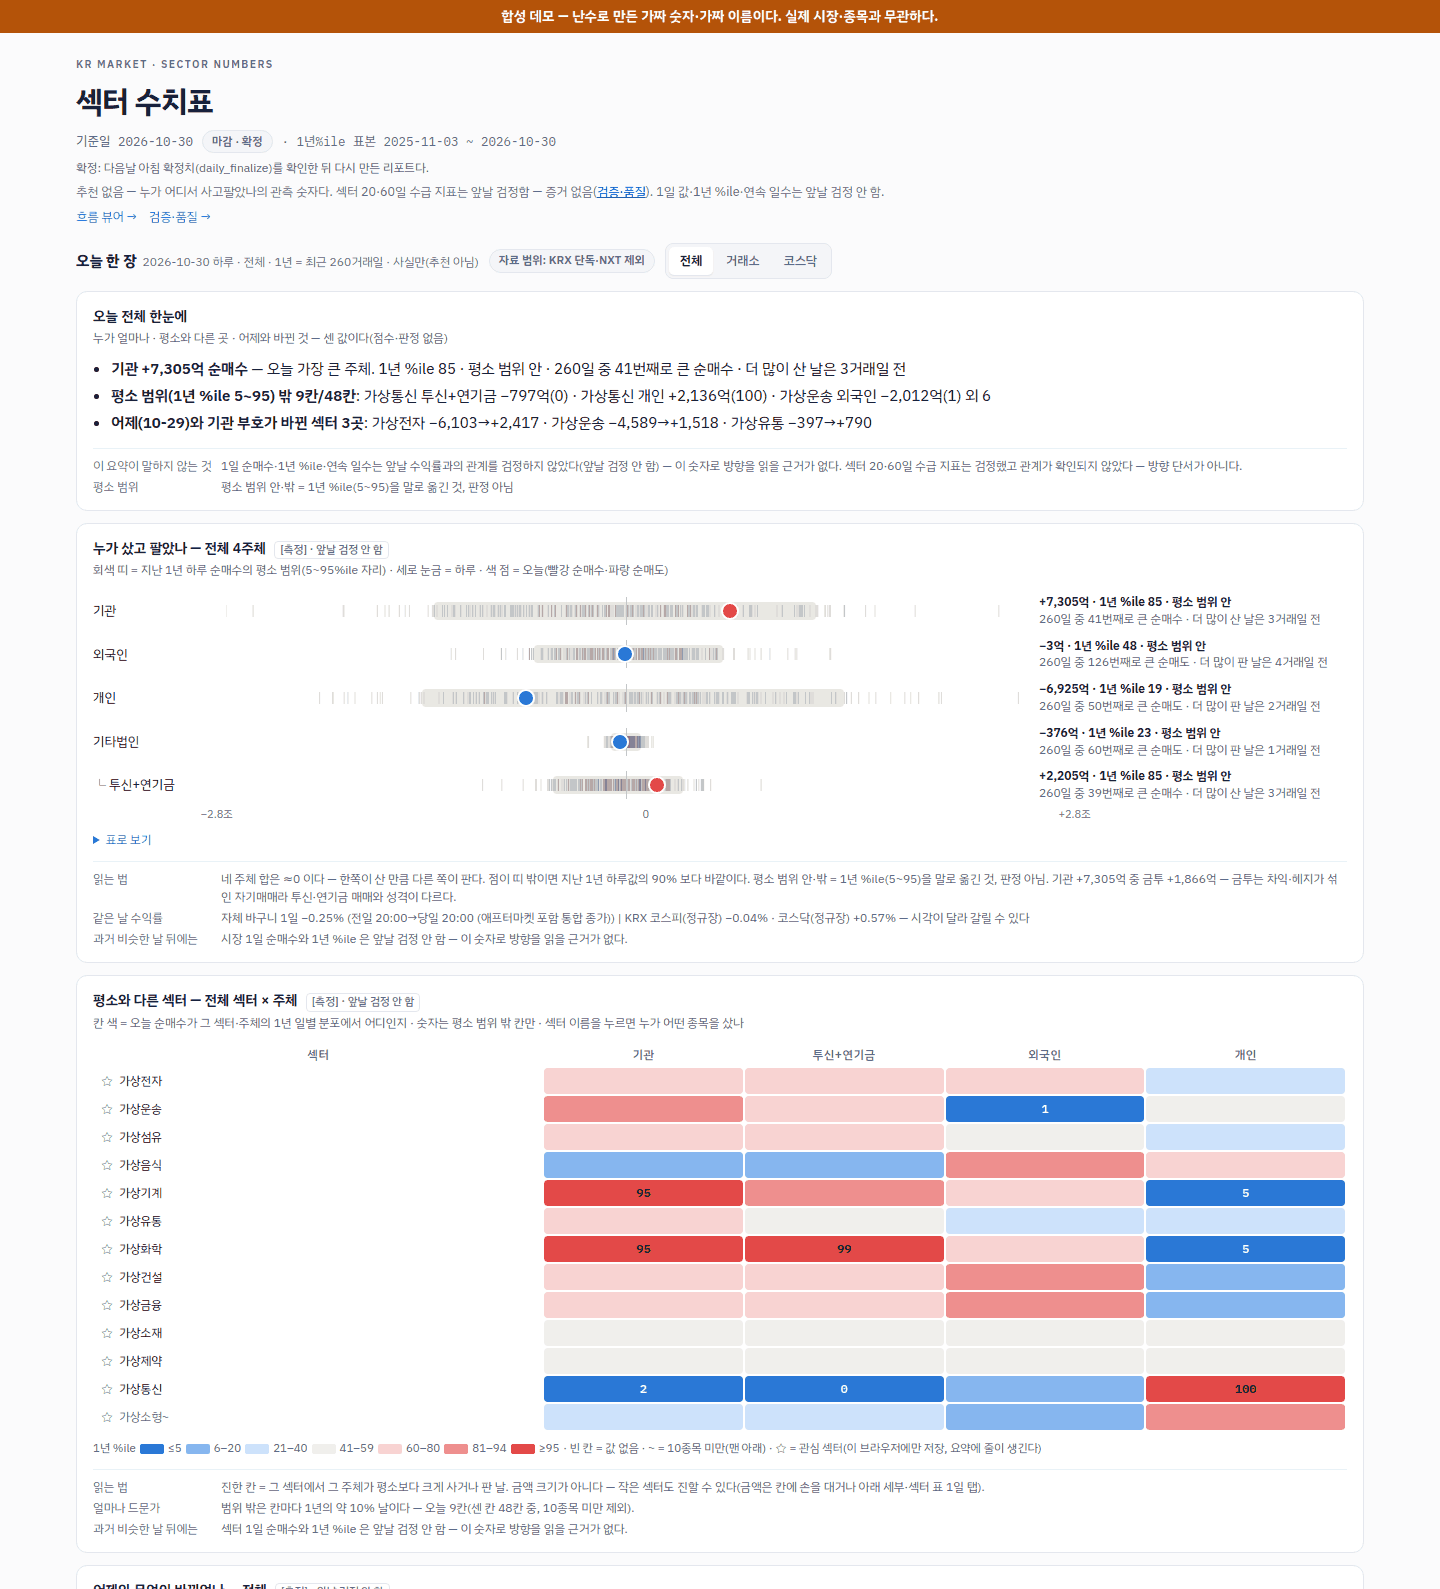
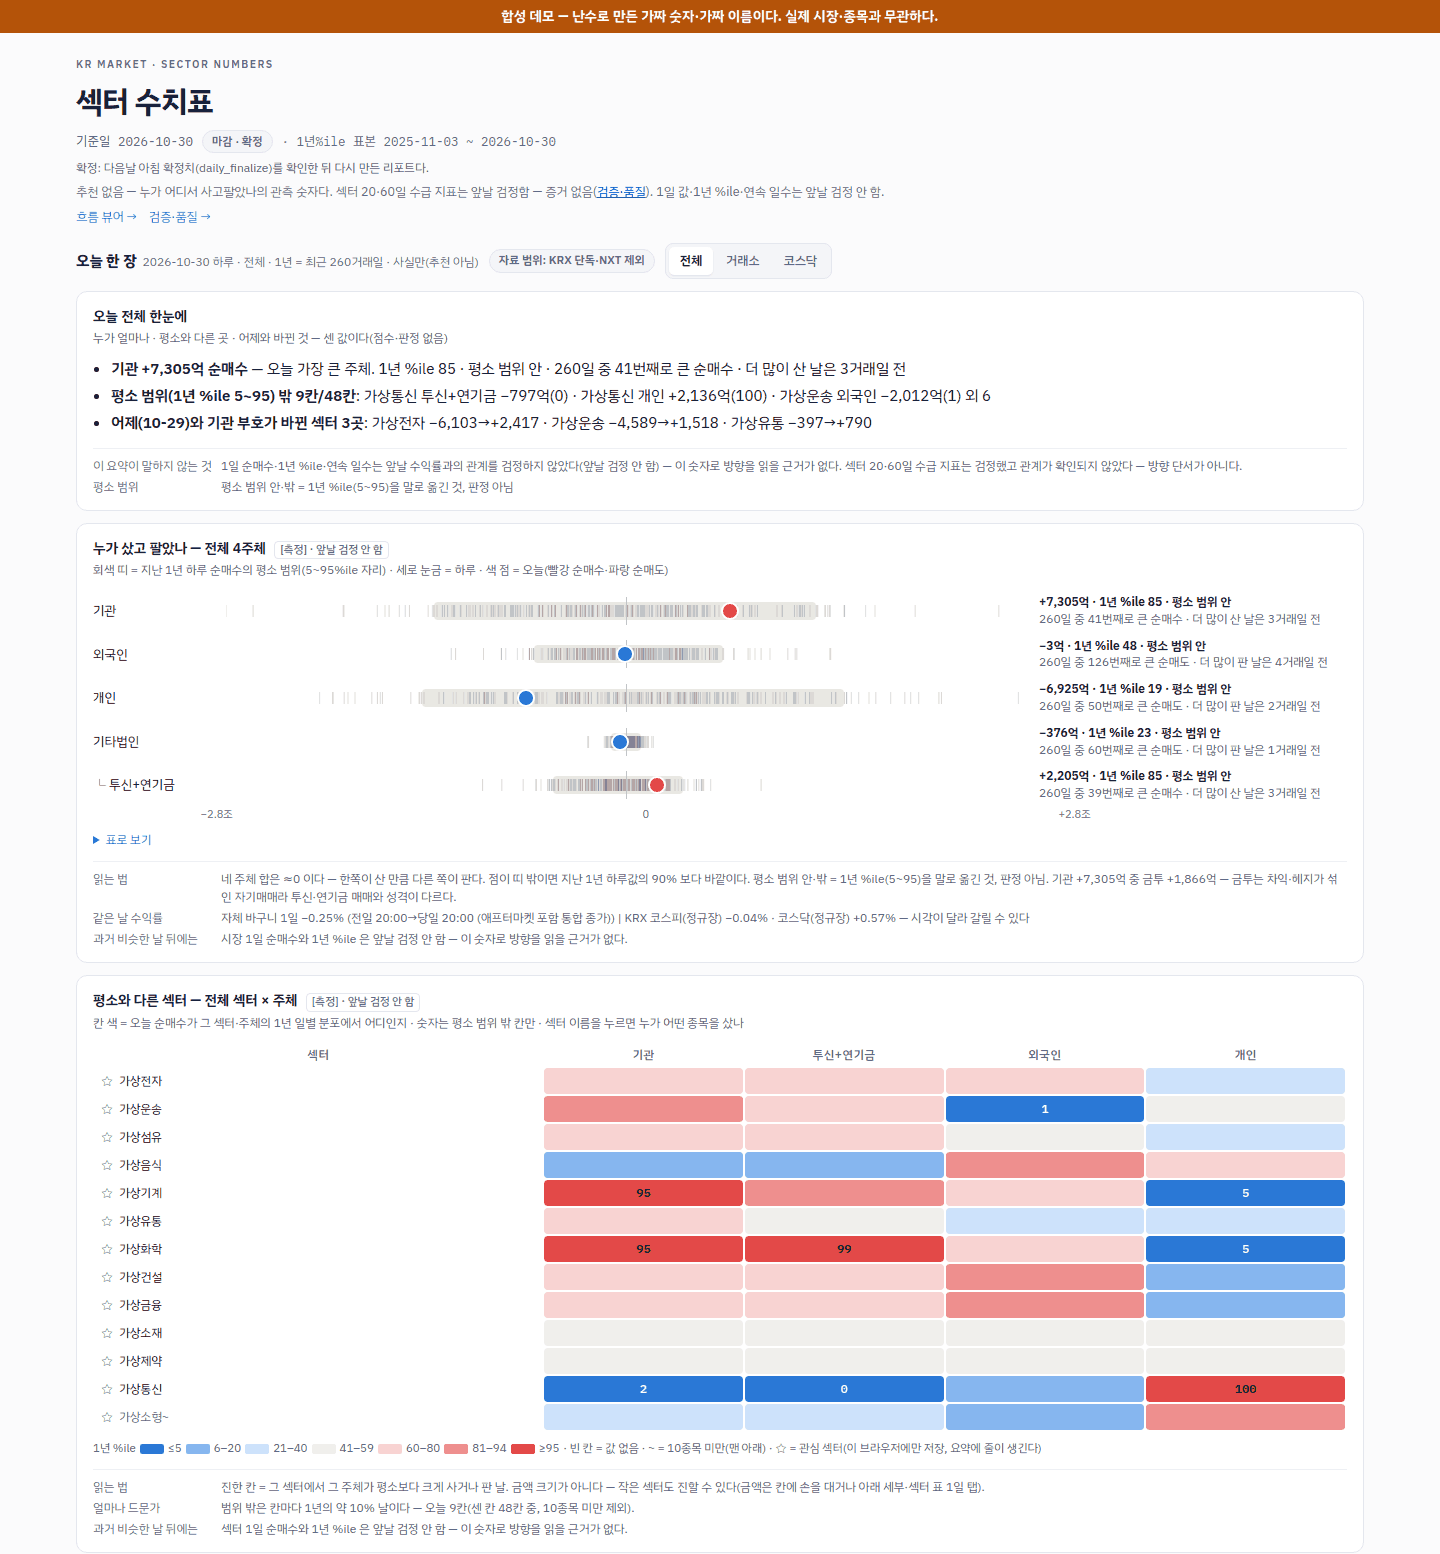
docs(images): 그림 원장을 지금 화면 코드로

diff --git a/docs/SCREENSHOTS.md b/docs/SCREENSHOTS.md
@@ -15,17 +15,17 @@ uv run --with playwright --with pillow python scripts/demo_shots.py
 
 | 이미지 | 감시 경로 | 찍은 커밋 |
 |---|---|---|
-| docs/images/kqflow-today.png | src/sectorflow/tui/ | 9bdb1bfaa432cafe1b1d9e667d77579b0ca80d13 |
-| docs/images/kqflow-today.png | src/sectorflow/demo.py | 9bdb1bfaa432cafe1b1d9e667d77579b0ca80d13 |
-| docs/images/kqflow-table.png | src/sectorflow/tui/ | 9bdb1bfaa432cafe1b1d9e667d77579b0ca80d13 |
-| docs/images/kqflow-table.png | src/sectorflow/demo.py | 9bdb1bfaa432cafe1b1d9e667d77579b0ca80d13 |
-| docs/images/kqflow-names.png | src/sectorflow/tui/ | 9bdb1bfaa432cafe1b1d9e667d77579b0ca80d13 |
-| docs/images/kqflow-names.png | src/sectorflow/demo.py | 9bdb1bfaa432cafe1b1d9e667d77579b0ca80d13 |
-| docs/images/kqflow-combined.png | src/sectorflow/tui/ | 9bdb1bfaa432cafe1b1d9e667d77579b0ca80d13 |
-| docs/images/kqflow-combined.png | src/sectorflow/demo.py | 9bdb1bfaa432cafe1b1d9e667d77579b0ca80d13 |
-| docs/images/kqledger-table.png | src/sectorflow/tui/ | 9bdb1bfaa432cafe1b1d9e667d77579b0ca80d13 |
-| docs/images/kqledger-table.png | src/sectorflow/demo.py | 9bdb1bfaa432cafe1b1d9e667d77579b0ca80d13 |
-| docs/images/web-today.png | scripts/templates/ | 9bdb1bfaa432cafe1b1d9e667d77579b0ca80d13 |
-| docs/images/web-today.png | src/sectorflow/demo.py | 9bdb1bfaa432cafe1b1d9e667d77579b0ca80d13 |
-| docs/images/web-today-mobile.png | scripts/templates/ | 9bdb1bfaa432cafe1b1d9e667d77579b0ca80d13 |
-| docs/images/web-today-mobile.png | src/sectorflow/demo.py | 9bdb1bfaa432cafe1b1d9e667d77579b0ca80d13 |
+| docs/images/kqflow-today.png | src/sectorflow/tui/ | 37ca33130f741e3c68e191b6ab99683879d7d5d3 |
+| docs/images/kqflow-today.png | src/sectorflow/demo.py | 37ca33130f741e3c68e191b6ab99683879d7d5d3 |
+| docs/images/kqflow-table.png | src/sectorflow/tui/ | 37ca33130f741e3c68e191b6ab99683879d7d5d3 |
+| docs/images/kqflow-table.png | src/sectorflow/demo.py | 37ca33130f741e3c68e191b6ab99683879d7d5d3 |
+| docs/images/kqflow-names.png | src/sectorflow/tui/ | 37ca33130f741e3c68e191b6ab99683879d7d5d3 |
+| docs/images/kqflow-names.png | src/sectorflow/demo.py | 37ca33130f741e3c68e191b6ab99683879d7d5d3 |
+| docs/images/kqflow-combined.png | src/sectorflow/tui/ | 37ca33130f741e3c68e191b6ab99683879d7d5d3 |
+| docs/images/kqflow-combined.png | src/sectorflow/demo.py | 37ca33130f741e3c68e191b6ab99683879d7d5d3 |
+| docs/images/kqledger-table.png | src/sectorflow/tui/ | 37ca33130f741e3c68e191b6ab99683879d7d5d3 |
+| docs/images/kqledger-table.png | src/sectorflow/demo.py | 37ca33130f741e3c68e191b6ab99683879d7d5d3 |
+| docs/images/web-today.png | scripts/templates/ | 37ca33130f741e3c68e191b6ab99683879d7d5d3 |
+| docs/images/web-today.png | src/sectorflow/demo.py | 37ca33130f741e3c68e191b6ab99683879d7d5d3 |
+| docs/images/web-today-mobile.png | scripts/templates/ | 37ca33130f741e3c68e191b6ab99683879d7d5d3 |
+| docs/images/web-today-mobile.png | src/sectorflow/demo.py | 37ca33130f741e3c68e191b6ab99683879d7d5d3 |
